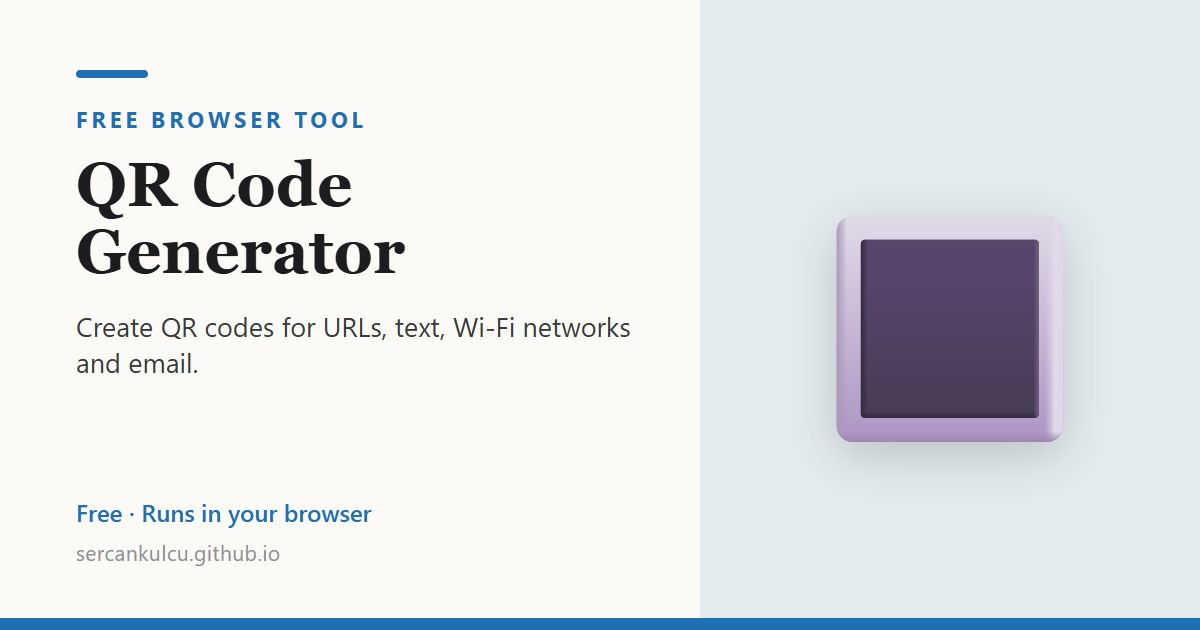
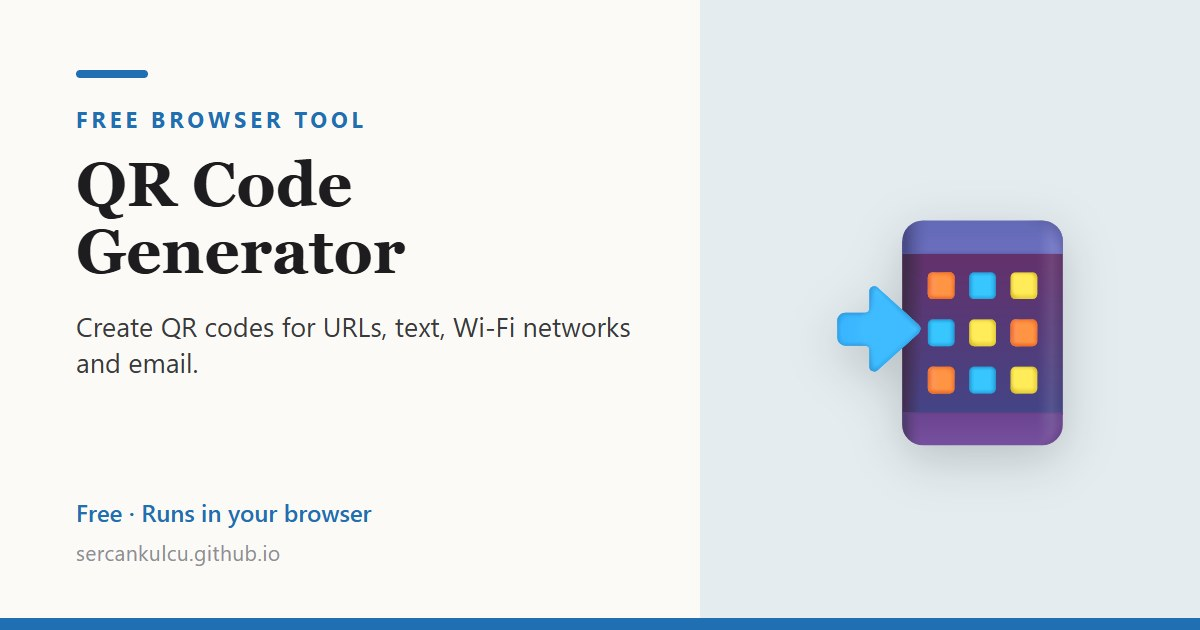
Apps: QR code generator gets the 📲 emoji

Changed region(s): [[0.6783, 0.3317, 0.8942, 0.7238]]

diff --git a/tools/make_app_pages.py b/tools/make_app_pages.py
@@ -33,7 +33,7 @@ GROUPS = [
         ('✂', '/apps/image-background-remover/'), ('🗜', '/apps/image-compressor-resizer/'),
         ('🕵', '/apps/image-redactor/'), ('🔄', '/apps/image-format-converter/'), ('🎨', '/apps/image-color-palette/')]),
     ('🛠', 'Utilities', '#1f6fb2', 'UtilitiesApplication', False, [
-        ('🔳', '/apps/qr-code-generator/'), ('🔐', '/apps/password-generator/'), ('📏', '/apps/unit-converter/'),
+        ('📲', '/apps/qr-code-generator/'), ('🔐', '/apps/password-generator/'), ('📏', '/apps/unit-converter/'),
         ('🌐', '/apps/favicon-generator/'), ('⏱', '/apps/minimal-timer/'), ('🍅', '/apps/pomodoro-timer/')]),
     ('🔍', 'Document & metadata tools', '#7b3fa0', 'BusinessApplication', True, [
         ('📝', '/apps/word-document-diff/'), ('🔎', '/apps/pdf-metadata-viewer/'),

diff --git a/_pages/apps.md b/_pages/apps.md
@@ -50,7 +50,7 @@ your files are processed on your own device and are never uploaded to a server. 
 </div>
 <h2 class="apps-group">🛠 Utilities</h2>
 <div class="apps-grid">
-<a class="app-card" href="/apps/qr-code-generator/"><span class="app-head"><span class="app-ico" aria-hidden="true">🔳</span>QR Code Generator</span><span class="app-desc">Create QR codes for URLs, text, Wi-Fi networks and email.</span></a>
+<a class="app-card" href="/apps/qr-code-generator/"><span class="app-head"><span class="app-ico" aria-hidden="true">📲</span>QR Code Generator</span><span class="app-desc">Create QR codes for URLs, text, Wi-Fi networks and email.</span></a>
 <a class="app-card" href="/apps/password-generator/"><span class="app-head"><span class="app-ico" aria-hidden="true">🔐</span>Password Generator</span><span class="app-desc">Generate strong passwords and memorable passphrases.</span></a>
 <a class="app-card" href="/apps/unit-converter/"><span class="app-head"><span class="app-ico" aria-hidden="true">📏</span>Unit Converter</span><span class="app-desc">Convert length, mass, temperature, area, volume, speed, time and digital storage units.</span></a>
 <a class="app-card" href="/apps/favicon-generator/"><span class="app-head"><span class="app-ico" aria-hidden="true">🌐</span>Favicon Generator</span><span class="app-desc">Generate favicon PNG files and a ready-to-use favicon package.</span></a>
